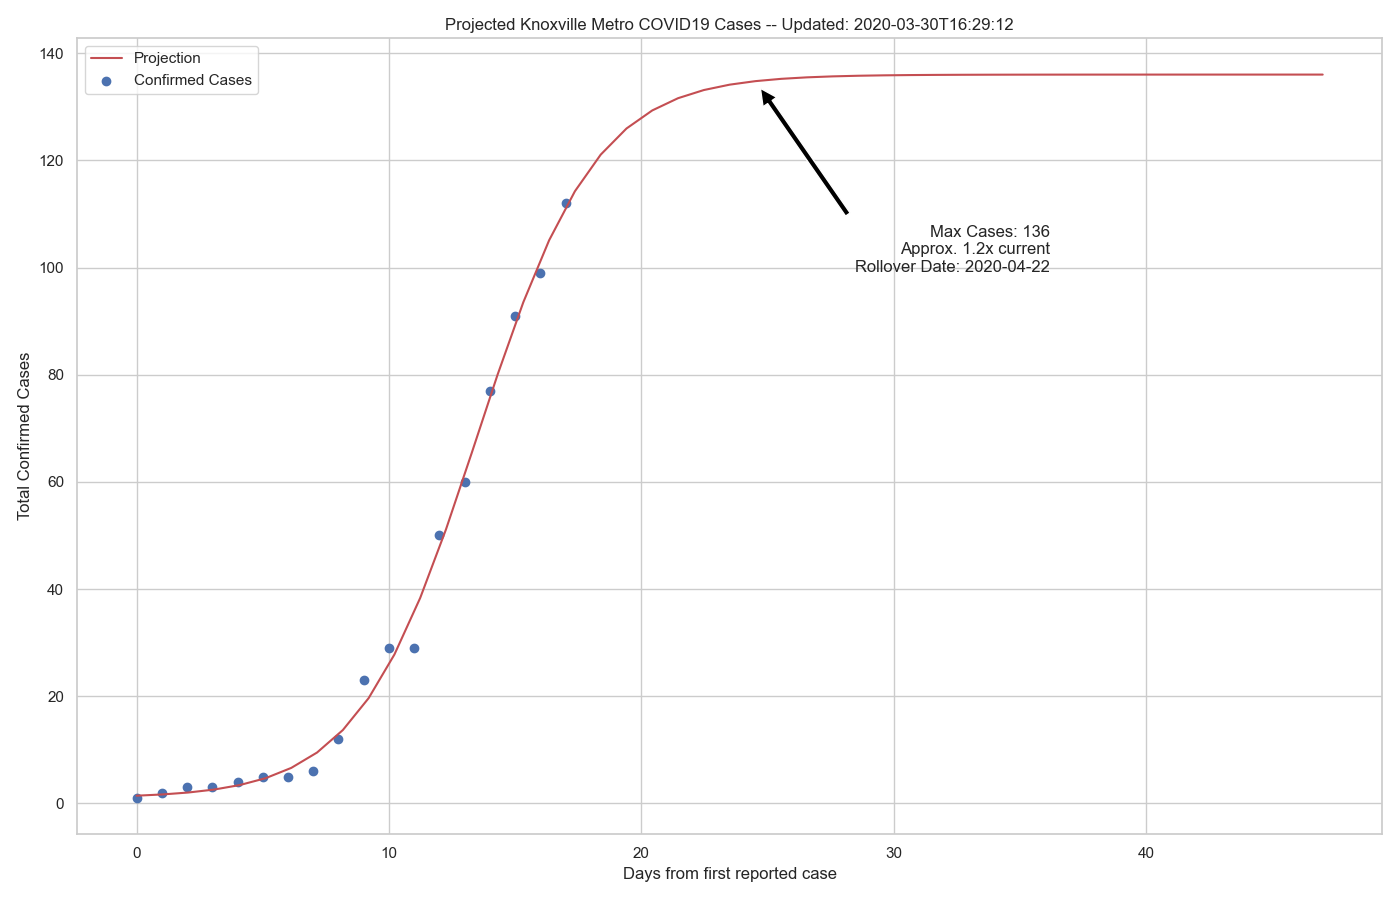
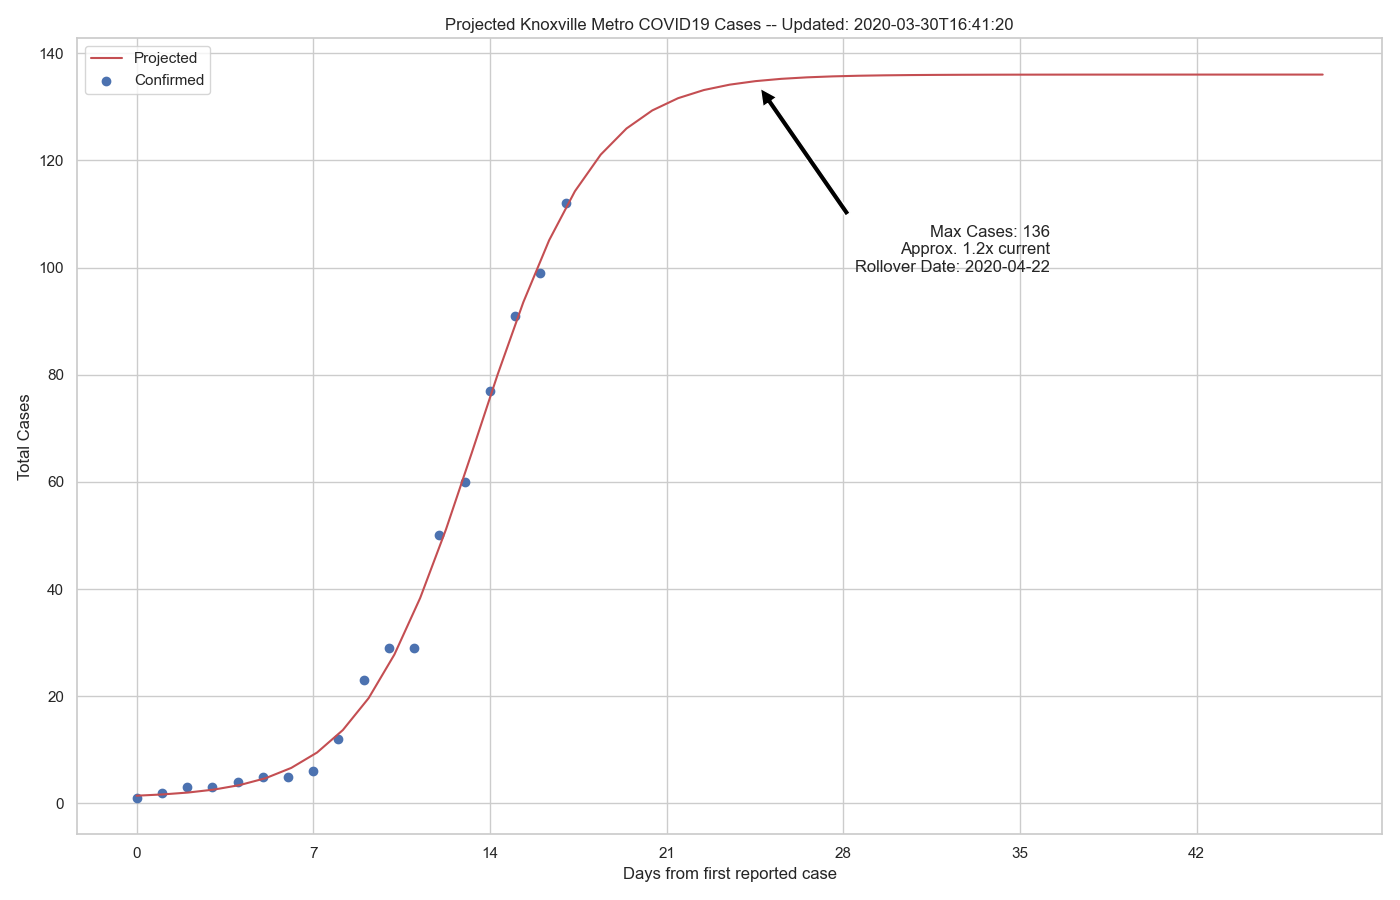
updated

Changed region(s): [[0.0, 0.4044, 0.0307, 0.56], [0.1229, 0.0622, 0.1843, 0.0933]]

diff --git a/analysis/knx_metro_covid.py b/analysis/knx_metro_covid.py
@@ -101,7 +101,6 @@ ratio = max(y_fit) / max(y)
 # when do new cases fall below ~1 (i.e., < 0.5)?
 no_new_cases = 0
 case_diff = np.diff(y_fit)
-print(case_diff)
 for i, ndiff in enumerate(case_diff):
     if ndiff < 0.5 and i > x[-1]:
         no_new_cases = i
@@ -132,11 +131,12 @@ plt.savefig('../imgs/metro-all.png')
 
 # plot projected cases
 fig, ax = plt.subplots(figsize=(14, 9))
-plt.scatter(x, y, label='Confirmed Cases')
-plt.plot(x_fit, y_fit, 'r-', label='Projection')
+plt.scatter(x, y, label='Confirmed')
+plt.plot(x_fit, y_fit, 'r-', label='Projected')
+plt.xticks(np.arange(min(x_fit), max(x_fit)+1, 7.0))
 plt.legend()
 plt.xlabel('Days from first reported case')
-plt.ylabel('Total Confirmed Cases')
+plt.ylabel('Total Cases')
 plt.title('Projected Knoxville Metro COVID19 Cases -- Updated: {}'.format(now))
 ax.annotate('Max Cases: {:.0f}\nApprox. {:.1f}x current\nRollover Date: {}'.format(max(y_fit), ratio, end_date),
             xytext=(0.75, 0.75), textcoords='figure fraction',

diff --git a/README.md b/README.md
@@ -2,9 +2,7 @@
 
 What's the story with COVID19 cases in Knoxville Metro?
 
-**LAST UPDATED: Mon Mar 30 15:03:29 EDT 2020**
-
-version: v0.2.0
+version: v0.2.0 -- **Updated on Mon Mar 30 15:03:29 EDT 2020**
 
 ## Defining Knoxville Metro
 
@@ -14,28 +12,35 @@ Before making an estimate, let us first define what data interests us. In this c
 
 To estimate the total confirmed COVID19 cases in the Knoxville metro area, I use the simplest population model: [the logistic function](https://en.wikipedia.org/wiki/Logistic_function#In_ecology:_modeling_population_growth). This model has one assumption: [growth of cases is capped by external forces](https://www.khanacademy.org/science/biology/ecology/population-growth-and-regulation/a/exponential-logistic-growth). There are no assumptions on what those forces are, just that they exert an immediate and irreversible influence on the growth rate.
 
-Cumulative Knoxville Metro cases per county per day:
-![Cumulative Knoxville Metro cases per county per day](/imgs/metro-county-cases.png)
+Best-fit logistic model for cumulative Knoxville Metro cases per day:
+
+![Best-fit logistic model for cumulative Knoxville Metro cases per day](/imgs/metro-all-fit.png)
 
 Cumulative Knoxville Metro cases per day:
+
 ![Cumulative Knoxville Metro cases per day](/imgs/metro-all.png)
 
-Best-fit logistics model for cumulative Knoxville Metro cases per day:
-![Best-fit logistics model for cumulative Knoxville Metro cases per day](/imgs/metro-all-fit.png)
+Cumulative Knoxville Metro cases per county per day:
+
+![Cumulative Knoxville Metro cases per county per day](/imgs/metro-county-cases.png)
 
 ## Installation & Usage
 
-Created using Python 3.8.0. Use the package manager [pip](https://pip.pypa.io/en/stable/) to install requirements:
+Created using Python 3.8.0. Use the package manager [pip](https://pip.pypa.io/en/stable/) to install requirements. I recommend using [`pyenv-virtualenv`](https://github.com/pyenv/pyenv-virtualenv) so you don't mess up your Python env.
 
 ```bash
-pip install -r analysis/requirements
+cd analysis
+pip install -r requirements
 ```
 
-An interactive Jupyter notebook (deprecated) and command line script are provided in [/analysis](/analysis).
+A command line script is provided in [/analysis](/analysis):
 
 ```bash
-python3 analysis/knx_metro_covid.py
+cd analysis
+python3 knx_metro_covid.py
 ```
+
+A deprecated interactive Jupyter notebook is also in the `analysis/` directory.
 
 ## Credits
 
